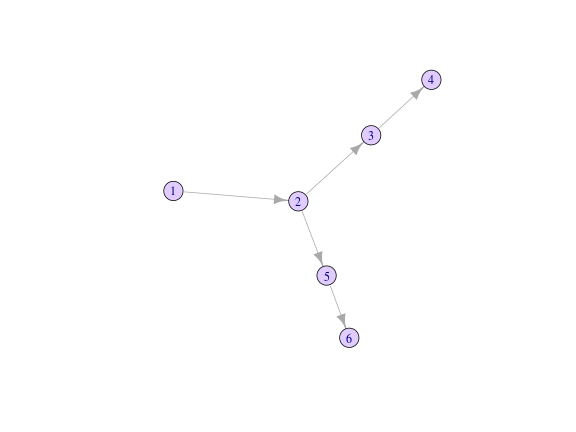
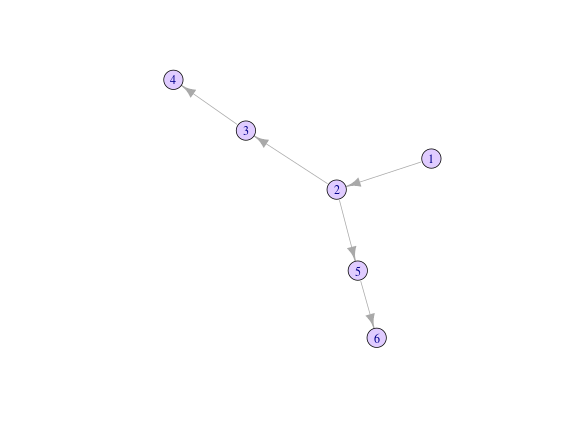
updating locations

diff --git a/README.md b/README.md
@@ -59,6 +59,14 @@ tree
 infection_dates <- c(0, 2, 5, 6, 7, 10)
 
 library(igraph)
+#> 
+#> Attaching package: 'igraph'
+#> The following objects are masked from 'package:stats':
+#> 
+#>     decompose, spectrum
+#> The following object is masked from 'package:base':
+#> 
+#>     union
 plot(graph.data.frame(tree), vertex.color = "#e0ccff")
 ```
 
@@ -88,7 +96,7 @@ new_config()
 #> $spatial_kernel
 #> function (x) 
 #> stats::rnorm(length(x), mean = x, sd = sd)
-#> <environment: 0x6049d98>
+#> <environment: 0x31b8a90>
 #> 
 #> $sd_spatial
 #> [1] 1
@@ -116,10 +124,10 @@ index
 #> [1] 0
 #> 
 #> /// place of infection ($location): 
-#> [1] 15.01976 24.77853
+#> [1] 96.45478 32.31864
 #> 
 #> /// DNA sequence mutations ($dna): 
-#>  [1] 9387 5661 8326 7106  335 6542 5529 3490 1508 4547
+#> [1] 9703 9129 9428 6714 6923 1048 6664 5071 1029
 ```
 
 
@@ -148,10 +156,10 @@ cases
 #> [1] 0
 #> 
 #> /// place of infection ($location): 
-#> [1] 15.01976 24.77853
+#> [1] 96.45478 32.31864
 #> 
 #> /// DNA sequence mutations ($dna): 
-#>  [1] 9387 5661 8326 7106  335 6542 5529 3490 1508 4547
+#> [1] 9703 9129 9428 6714 6923 1048 6664 5071 1029
 #> 
 #> [[2]]
 #> <case object>
@@ -160,10 +168,10 @@ cases
 #> [1] 2
 #> 
 #> /// place of infection ($location): 
-#> [1] 15.2034 23.9429
+#> [1] 96.63842 31.48301
 #> 
 #> /// DNA sequence mutations ($dna): 
-#>  [1] 9387 5661 8326 7106  335 6542 5529 3490 1508 4547 3722
+#>  [1] 9703 9129 9428 6714 6923 1048 6664 5071 1029 3722
 #> 
 #> [[3]]
 #> <case object>
@@ -172,11 +180,11 @@ cases
 #> [1] 5
 #> 
 #> /// place of infection ($location): 
-#> [1] 14.90868 23.93714
+#> [1] 96.34370 31.47725
 #> 
 #> /// DNA sequence mutations ($dna): 
-#>  [1] 9387 5661 8326 7106  335 6542 5529 3490 1508 4547 3722 6608 6292  619
-#> [15] 2061 1766 6871
+#>  [1] 9703 9129 9428 6714 6923 1048 6664 5071 1029 3722 6608 6292  619 2061
+#> [15] 1766 6871
 #> 
 #> [[4]]
 #> <case object>
@@ -185,11 +193,11 @@ cases
 #> [1] 6
 #> 
 #> /// place of infection ($location): 
-#> [1] 15.29852 23.31589
+#> [1] 96.73355 30.85601
 #> 
 #> /// DNA sequence mutations ($dna): 
-#>  [1] 9387 5661 8326 7106  335 6542 5529 3490 1508 4547 3722 6608 6292  619
-#> [15] 2061 1766 6871 3801 7775 9347 2122
+#>  [1] 9703 9129 9428 6714 6923 1048 6664 5071 1029 3722 6608 6292  619 2061
+#> [15] 1766 6871 3801 7775 9347 2122
 #> 
 #> [[5]]
 #> <case object>
@@ -198,10 +206,10 @@ cases
 #> [1] 7
 #> 
 #> /// place of infection ($location): 
-#> [1] 16.32833 23.89797
+#> [1] 97.76335 31.43808
 #> 
 #> /// DNA sequence mutations ($dna): 
-#>  [1] 9387 5661 8326 7106  335 6542 5529 3490 1508 4547 3722 3824
+#>  [1] 9703 9129 9428 6714 6923 1048 6664 5071 1029 3722 3824
 #> 
 #> [[6]]
 #> <case object>
@@ -210,17 +218,21 @@ cases
 #> [1] 10
 #> 
 #> /// place of infection ($location): 
-#> [1] 17.14955 24.49187
+#> [1] 98.58458 32.03198
 #> 
 #> /// DNA sequence mutations ($dna): 
-#>  [1] 9387 5661 8326 7106  335 6542 5529 3490 1508 4547 3722 3824 1863 8274
-#> [15] 6685
+#>  [1] 9703 9129 9428 6714 6923 1048 6664 5071 1029 3722 3824 1863 8274 6685
 ```
 
 Some further analyses
 
 ```r
 library(ape)
+#> 
+#> Attaching package: 'ape'
+#> The following objects are masked from 'package:igraph':
+#> 
+#>     edges, mst, ring
 
 dna <- lapply(cases, function(e) e$dna)
 locations <- matrix(unlist(lapply(cases, function(e) e$location)),
